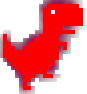
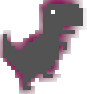
alterei o dino e coloquei uma imagem do bart

diff --git a/dino_runner/components/game.py b/dino_runner/components/game.py
@@ -2,7 +2,7 @@ import pygame
 pygame.init()  # iniciar pygame # 
 pygame.mixer.init() # iniciar msc
 # Precisa ser antes de import pois as variáveis dos sons no arquivo constants precisam do mixer já iniciado. Senão, ocorrerá um erro.
-from dino_runner.utils.constants import BG, ICON, SCREEN_HEIGHT, SCREEN_WIDTH, TITLE, FPS, DEFAULT_TYPE, SCORE_SOUND, CLOUD, GAMER_OVER
+from dino_runner.utils.constants import BG, ICON, SCREEN_HEIGHT, SCREEN_WIDTH, TITLE, FPS, DEFAULT_TYPE, SCORE_SOUND, CLOUD, GAMER_OVER, BART
 from dino_runner.components.dinosaur import Dinosaur
 from dino_runner.components.obstacles.obstacle_manager import ObstacleManager
 from dino_runner.utils.text_utils import draw_message_component
@@ -79,8 +79,8 @@ class Game: #class mas importante do jogo conte a logica principal do jogo
         draw_message_component(
         f"Record: {self.record}",
         self.screen,
-        pos_x_center=1000,
-        pos_y_center=80  # Defina a posição Y desejada para o recorde
+        pos_x_center=1400,
+        pos_y_center=60  # Defina a posição Y desejada para o recorde
     )
 
     
@@ -108,14 +108,14 @@ class Game: #class mas importante do jogo conte a logica principal do jogo
         if self.x_pos_bg <= - image_width:
             self.screen.blit(BG, (image_width + self.x_pos_bg, self.y_pos_bg))
             self.x_pos_bg = 0
-        self.x_pos_bg -= self.game_speed # TROCANDO 
+        self.x_pos_bg -= self.game_speed # TROCANDO
 
     def draw_score(self):
         draw_message_component(
             f"score:{self.score}",
             self.screen,
-            pos_x_center = 1000,
-            pos_y_center = 50
+            pos_x_center = 1400,
+            pos_y_center = 40
         )
 
     def draw_power_up_time(self): #tempo para mostrar
@@ -134,11 +134,15 @@ class Game: #class mas importante do jogo conte a logica principal do jogo
                     self.player.type = DEFAULT_TYPE 
     
     def draw_cloud(self):
-        image_width = CLOUD.get_width()
+        image_width = CLOUD.get_width() 
+        self.screen.blit(CLOUD, (self.x_pos_cloud, self.y_pos_cloud))
         self.screen.blit(CLOUD, (image_width + self.x_pos_cloud, self.y_pos_cloud))
+        self.screen.blit(CLOUD, (300 + self.x_pos_cloud, self.y_pos_cloud))
+        self.screen.blit(CLOUD, ( 600 + self.x_pos_cloud, self.y_pos_cloud))
+        self.screen.blit(CLOUD, ( 900 + self.x_pos_cloud, self.y_pos_cloud))
         if self.x_pos_cloud <= - image_width:
             self.screen.blit(CLOUD, (image_width + self.x_pos_cloud, self.y_pos_cloud))
-            self.x_pos_cloud = 1000
+            self.x_pos_cloud = SCREEN_WIDTH 
         self.x_pos_cloud -= self.game_speed
 
 
@@ -157,8 +161,8 @@ class Game: #class mas importante do jogo conte a logica principal do jogo
         hals_screen_width = SCREEN_WIDTH // 2 
         if self.death_count == 0:
             draw_message_component("Pressione qualquer tecla para iniciar", self.screen)
-            draw_message_component("Criador : Ronald luis", self.screen, pos_y_center = half_screen_height + 280, pos_x_center = hals_screen_width - 428)
-        
+            draw_message_component("Criador : Ronald luis ", self.screen, pos_y_center = half_screen_height + 280, pos_x_center = hals_screen_width - 630)
+            self.screen.blit(BART, (hals_screen_width - 550, half_screen_height + 210))
         else:
             draw_message_component("Pressione qualquer tecla para reiniciar", self.screen, pos_y_center = half_screen_height + 140)
             draw_message_component(

diff --git a/dino_runner/utils/constants.py b/dino_runner/utils/constants.py
@@ -4,13 +4,14 @@ import os
 # Global Constants
 TITLE = "Chrome Dino Runner"
 SCREEN_HEIGHT = 600
-SCREEN_WIDTH = 1150
+SCREEN_WIDTH = 1500
 FPS = 30
 IMG_DIR = os.path.join(os.path.dirname(__file__), "..", "assets")
 SOUND_DIR = os.path.join(os.path.dirname(__file__), "..", "assets","Sounds")
 # Assets Constants
 ICON = pygame.image.load(os.path.join(IMG_DIR, "DinoWallpaper.png"))
 GAMER_OVER = pygame.image.load(os.path.join(IMG_DIR, "Other/GameOver.png"))
+BART = pygame.image.load(os.path.join(IMG_DIR, "bart.png"))
 
 RUNNING = [
     pygame.image.load(os.path.join(IMG_DIR, "Dino/DinoRun1.png")),
